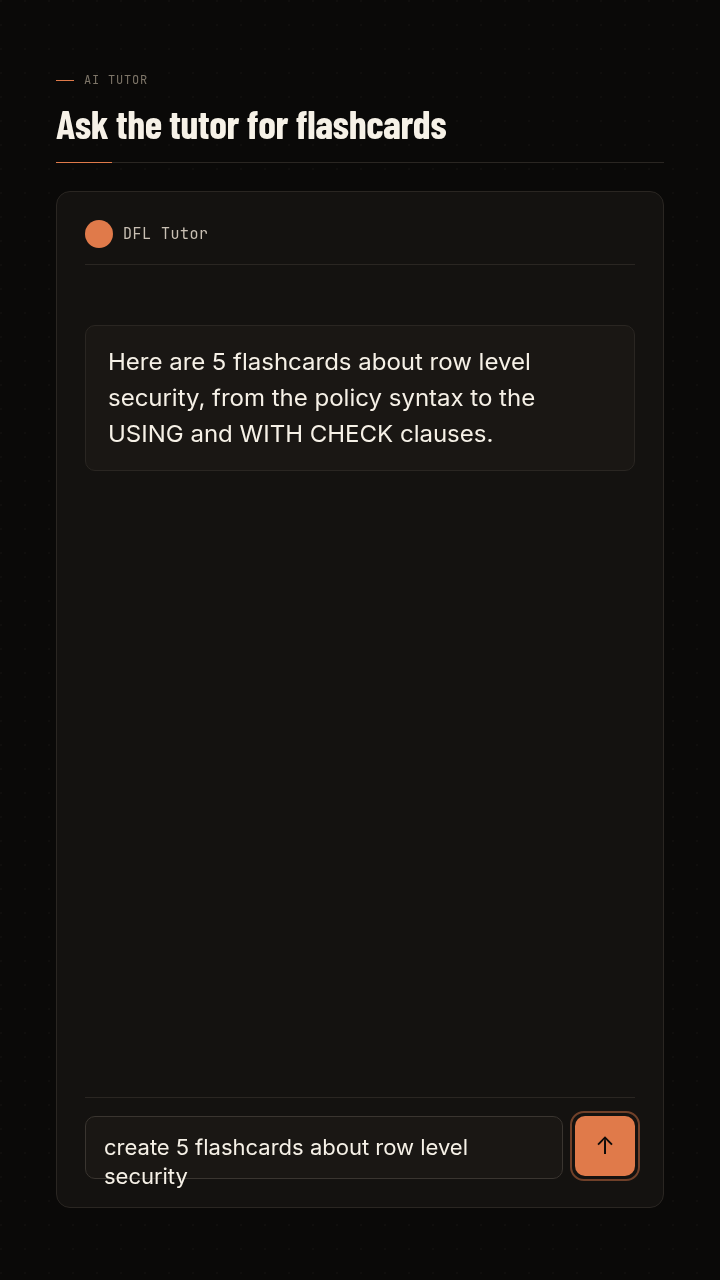
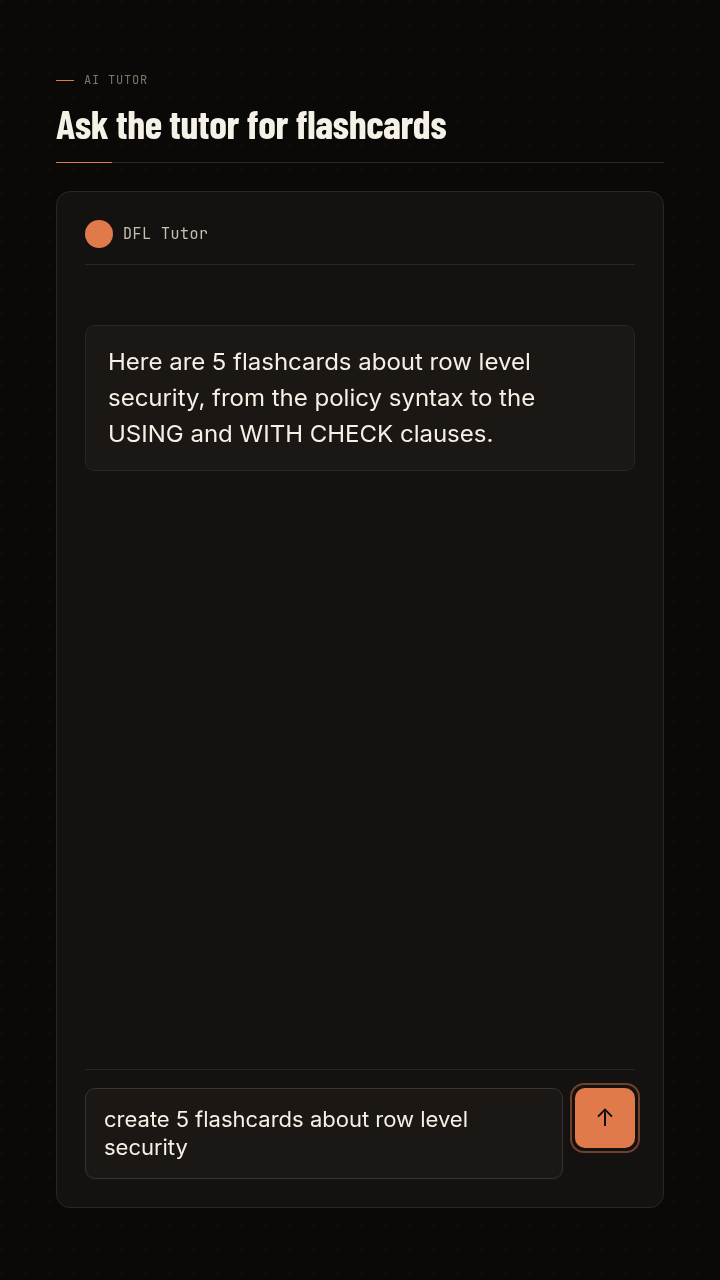
fix(chat-typing): lay the composer out identically with and without the runtime
Review of #91 found two defects a user sees.

1. The static twin was absolutely positioned inside a fixed-height field, so a
   two-line prompt spilled 11.6px below the input border, and the committed
   portrait preview shipped the word "security" outside the field. The static
   field measured 62.6px against the animated 91.2px. The twin and the typed
   span now share ONE grid cell, so both are in flow: the field takes the height
   of the authored prompt in every state, and it no longer grows while the
   prompt types.

2. `response` is an optional slot, but the bubble carried no guard, so an
   omitted answer painted an empty bordered box — and it showed the answer
   container before the question was sent. `:empty { display: none }` hides it
   and KEEPS the element in the DOM, so the runtime still finds the target. A
   Mustache guard would remove the element and break the target contract.

Also: the twin carries aria-hidden, because opacity:0 keeps an element in the
accessibility tree; and the `prompt` slot description no longer invites a length
the layout could not hold.

preview-portrait.png is regenerated through the same buildHtmlPage path.
preview-landscape.png is byte-identical, so the landscape render is unchanged.

Claude-Session: https://claude.ai/code/session_01CWbMwdRA1GnLeDKWyRAR2S

Changed region(s): [[0.1528, 0.8438, 0.6417, 0.9375], [0.7639, 0.8438, 0.8861, 0.9375]]

diff --git a/templates/chat-typing/portrait.css b/templates/chat-typing/portrait.css
@@ -122,6 +122,13 @@
   background-size: calc(var(--anim-highlight, 0) * 100%) 100%;
 }
 
+/* `response` is an optional slot. Without it the bubble must not paint an empty
+   box, and it must NOT leave the DOM: the runtime drives this element, so a
+   Mustache guard that removes it would break the target contract. `display:
+   none` keeps the target where `applyAnimationState` finds it. `templates/steps`
+   uses the same `:empty` idiom. */
+.tpl-root.tpl-chat-typing.tpl-chat-typing--portrait .tpl-chat-typing__response:empty { display: none; }
+
 .tpl-root.tpl-chat-typing.tpl-chat-typing--portrait .tpl-chat-typing__composer {
   display: flex;
   align-items: flex-start;
@@ -132,7 +139,15 @@
 }
 
 .tpl-root.tpl-chat-typing.tpl-chat-typing--portrait .tpl-chat-typing__field {
-  position: relative;
+  /* The typed span and the static twin share ONE grid cell, so BOTH are in
+     flow. The field is therefore as tall as the authored prompt in every state,
+     and the twin can never spill past the border. An absolutely positioned twin
+     sized the static field at 62.6px against the animated 91.2px, and the
+     two-line sample prompt hung 11.6px below the input border — in the
+     committed preview. The shared cell also stops the field from growing while
+     the prompt types, so the layout is stable frame to frame. */
+  display: grid;
+  align-items: start;
   flex: 1;
   min-width: 0;
   min-height: 60px;
@@ -150,6 +165,7 @@
    textContent, so the markup leaves it empty and the static twin below carries
    the authored prompt. */
 .tpl-root.tpl-chat-typing.tpl-chat-typing--portrait .tpl-chat-typing__typed {
+  grid-area: 1 / 1;
   background-image: linear-gradient(var(--s-brand-subtle, rgba(224, 122, 74, 0.10)), var(--s-brand-subtle, rgba(224, 122, 74, 0.10)));
   background-repeat: no-repeat;
   background-size: calc(var(--anim-highlight, 0) * 100%) 100%;
@@ -174,10 +190,7 @@
    is a value the runtime can never produce: 9 - 1 clamps to 1 (twin visible),
    and both runtime values clamp to 0 (the typed text is the only copy). */
 .tpl-root.tpl-chat-typing.tpl-chat-typing--portrait .tpl-chat-typing__static {
-  position: absolute;
-  left: 18px;
-  right: 18px;
-  top: 16px;
+  grid-area: 1 / 1;
   opacity: clamp(0, calc(var(--anim-sent, 9) - 1), 1);
 }
 

diff --git a/templates/chat-typing/landscape.css b/templates/chat-typing/landscape.css
@@ -122,6 +122,13 @@
   background-size: calc(var(--anim-highlight, 0) * 100%) 100%;
 }
 
+/* `response` is an optional slot. Without it the bubble must not paint an empty
+   box, and it must NOT leave the DOM: the runtime drives this element, so a
+   Mustache guard that removes it would break the target contract. `display:
+   none` keeps the target where `applyAnimationState` finds it. `templates/steps`
+   uses the same `:empty` idiom. */
+.tpl-root.tpl-chat-typing .tpl-chat-typing__response:empty { display: none; }
+
 .tpl-root.tpl-chat-typing .tpl-chat-typing__composer {
   display: flex;
   align-items: flex-start;
@@ -132,7 +139,14 @@
 }
 
 .tpl-root.tpl-chat-typing .tpl-chat-typing__field {
-  position: relative;
+  /* The typed span and the static twin share ONE grid cell, so BOTH are in
+     flow. The field is therefore as tall as the authored prompt in every state,
+     and the twin can never spill past the border. An absolutely positioned twin
+     sized the static field at 54px against the animated 80px, and a two-line
+     prompt hung outside the input. The shared cell also stops the field from
+     growing while the prompt types, so the layout is stable frame to frame. */
+  display: grid;
+  align-items: start;
   flex: 1;
   min-width: 0;
   min-height: 52px;
@@ -150,6 +164,7 @@
    textContent, so the markup leaves it empty and the static twin below carries
    the authored prompt. */
 .tpl-root.tpl-chat-typing .tpl-chat-typing__typed {
+  grid-area: 1 / 1;
   background-image: linear-gradient(var(--s-brand-subtle, rgba(224, 122, 74, 0.10)), var(--s-brand-subtle, rgba(224, 122, 74, 0.10)));
   background-repeat: no-repeat;
   background-size: calc(var(--anim-highlight, 0) * 100%) 100%;
@@ -174,10 +189,7 @@
    is a value the runtime can never produce: 9 - 1 clamps to 1 (twin visible),
    and both runtime values clamp to 0 (the typed text is the only copy). */
 .tpl-root.tpl-chat-typing .tpl-chat-typing__static {
-  position: absolute;
-  left: 16px;
-  right: 16px;
-  top: 13px;
+  grid-area: 1 / 1;
   opacity: clamp(0, calc(var(--anim-sent, 9) - 1), 1);
 }
 

diff --git a/templates/chat-typing/landscape.html b/templates/chat-typing/landscape.html
@@ -18,7 +18,7 @@
     <div class="tpl-chat-typing__composer">
       <div class="tpl-chat-typing__field">
         <span class="tpl-chat-typing__typed" data-anim-target="prompt"></span>
-        <span class="tpl-chat-typing__static">{{prompt}}</span>
+        <span class="tpl-chat-typing__static" aria-hidden="true">{{prompt}}</span>
       </div>
       <span class="tpl-chat-typing__send">
         <span class="tpl-chat-typing__send-ring"></span>

diff --git a/templates/chat-typing/portrait.html b/templates/chat-typing/portrait.html
@@ -18,7 +18,7 @@
     <div class="tpl-chat-typing__composer">
       <div class="tpl-chat-typing__field">
         <span class="tpl-chat-typing__typed" data-anim-target="prompt"></span>
-        <span class="tpl-chat-typing__static">{{prompt}}</span>
+        <span class="tpl-chat-typing__static" aria-hidden="true">{{prompt}}</span>
       </div>
       <span class="tpl-chat-typing__send">
         <span class="tpl-chat-typing__send-ring"></span>
